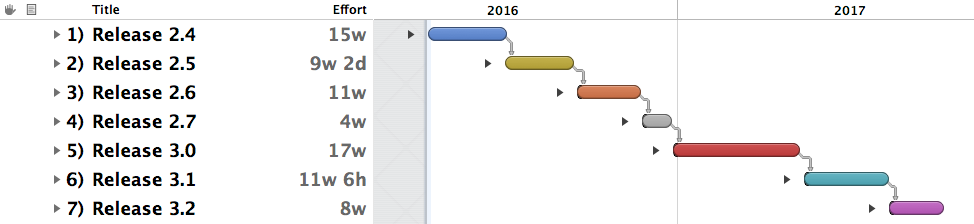
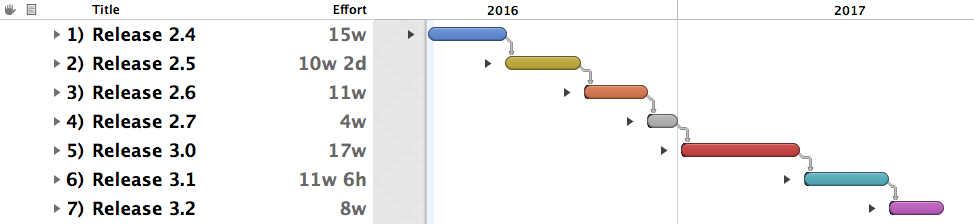
added run action to roadmap

Changed region(s): [[0.616, 0.375, 0.7084, 0.7188], [0.5544, 0.25, 0.616, 0.4375], [0.308, 0.25, 0.3388, 0.3125]]

diff --git a/webPage/source/documentation/releases/roadmap.rst b/webPage/source/documentation/releases/roadmap.rst
@@ -53,15 +53,19 @@ GEMC 2.4
 
 - remove more obsolete cpp materials.
 
-- add physical volume constructor - active rotations
+- add physical volume constructor - active rotations.
 
 GEMC 2.5
 --------
-- G4Analysis tool for all detectors fluxes
+- G4Analysis tool for all detectors fluxes.
 
 - Physics Cross Section Validation at JLab regine. SAID tables, inclusive cross section.
 
 - Finalize implementation of Replicas and Divisions.
+
+- Python API implementation.
+
+- Use Run Action.
 
 GEMC 2.6
 --------
@@ -83,6 +87,7 @@ GEMC 2.6
 
 GEMC 2.7
 --------
+
 - overimposing magnetic fields
 
 - Multihit TDC.
